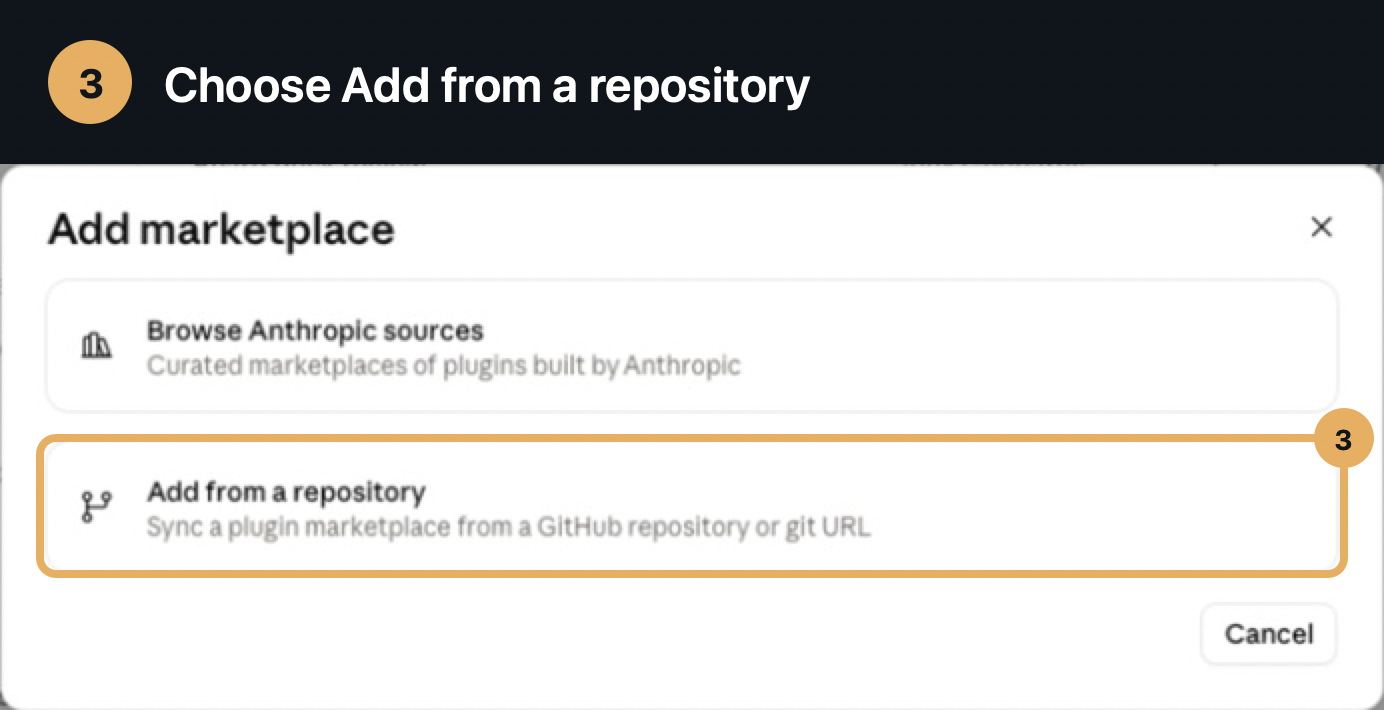
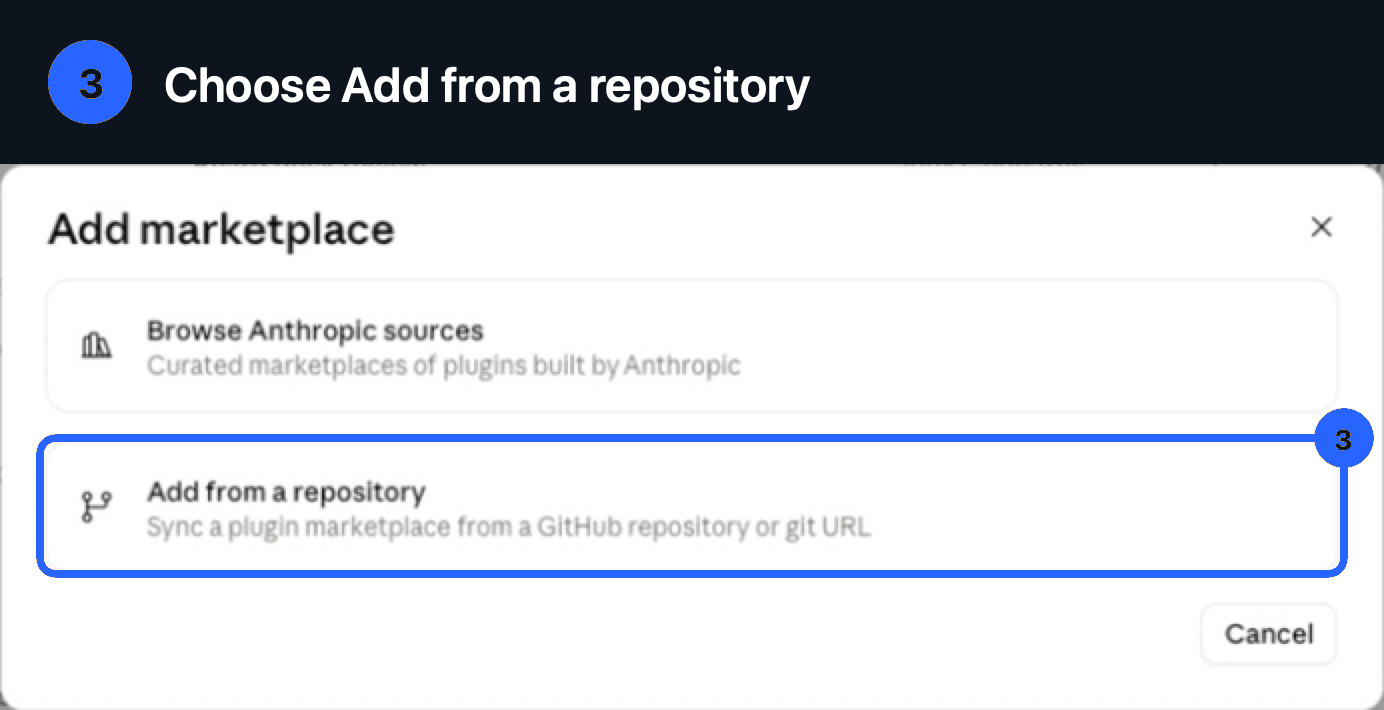
Rebrand ThoughtfulBits Skills for 1.1.3

Changed region(s): [[0.0, 0.5577, 0.9942, 0.8366], [0.0311, 0.062, 0.0932, 0.1859]]

diff --git a/docs/openai-submission.md b/docs/openai-submission.md
@@ -81,13 +81,14 @@ Use this packet to submit the skills-only ZIP produced by:
 
 ## Release notes
 
-Version 1.1.1 adds native installation in ChatGPT Work and Codex through OpenAI's universal plugin directory while preserving the existing Claude Desktop package. It includes four instruction-only review skills, OpenAI-specific skill metadata, and no MCP server, custom UI, external service, or independent data collection.
+Version 1.1.3 introduces the new ThoughtfulBits identity across the OpenAI directory and composer while preserving the existing four instruction-only review skills, Claude Desktop package, policy URLs, and invocation behavior. There is still no MCP server, custom UI, external service, or independent data collection.
 
 ## Publication checklist
 
 - Verify the publisher identity as **ThoughtfulBits Consulting**.
 - Upload the ZIP using the portal's **Skills only** option.
-- Upload `assets/logo.png` as the listing logo if the portal requests it separately.
+- Upload `assets/openai/directory-icon-light.png` and `assets/openai/directory-icon-dark.png` as the directory icons.
+- Upload `assets/openai/composer-icon-light.png` and `assets/openai/composer-icon-dark.png` as the composer icons.
 - Confirm all supported markets and English as the listing language.
 - Run the five positive and three negative tests above.
 - Published in the [OpenAI Plugins Directory](https://chatgpt.com/plugins/plugins_6a6f44be6a5881919d952d77e2da8080); the final directory URL is linked from the README and website.

diff --git a/README.md b/README.md
@@ -1,3 +1,5 @@
+![ThoughtfulBits — Ideas that Matter](assets/wordmark.png)
+
 # ThoughtfulBits Skills — review skills for ChatGPT, Codex, and Claude
 
 Four review skills for B2B SaaS product and board leaders, packaged as a native OpenAI plugin and a Claude Desktop plugin:
@@ -115,6 +117,10 @@ evals/<skill-name>/            # per-skill eval suites and fixtures
 docs/images/                   # install walkthrough screenshots
 scripts/                       # OpenAI package validation and ZIP builder
 ```
+
+## Brand assets
+
+The plugin uses the ThoughtfulBits cobalt, ink, platinum, and frost-white identity. OpenAI-specific light- and dark-mode directory and composer icons are stored in `assets/openai/`; `assets/logo.png` and `assets/icon.svg` remain the native manifest defaults.
 
 ## Releasing
 
